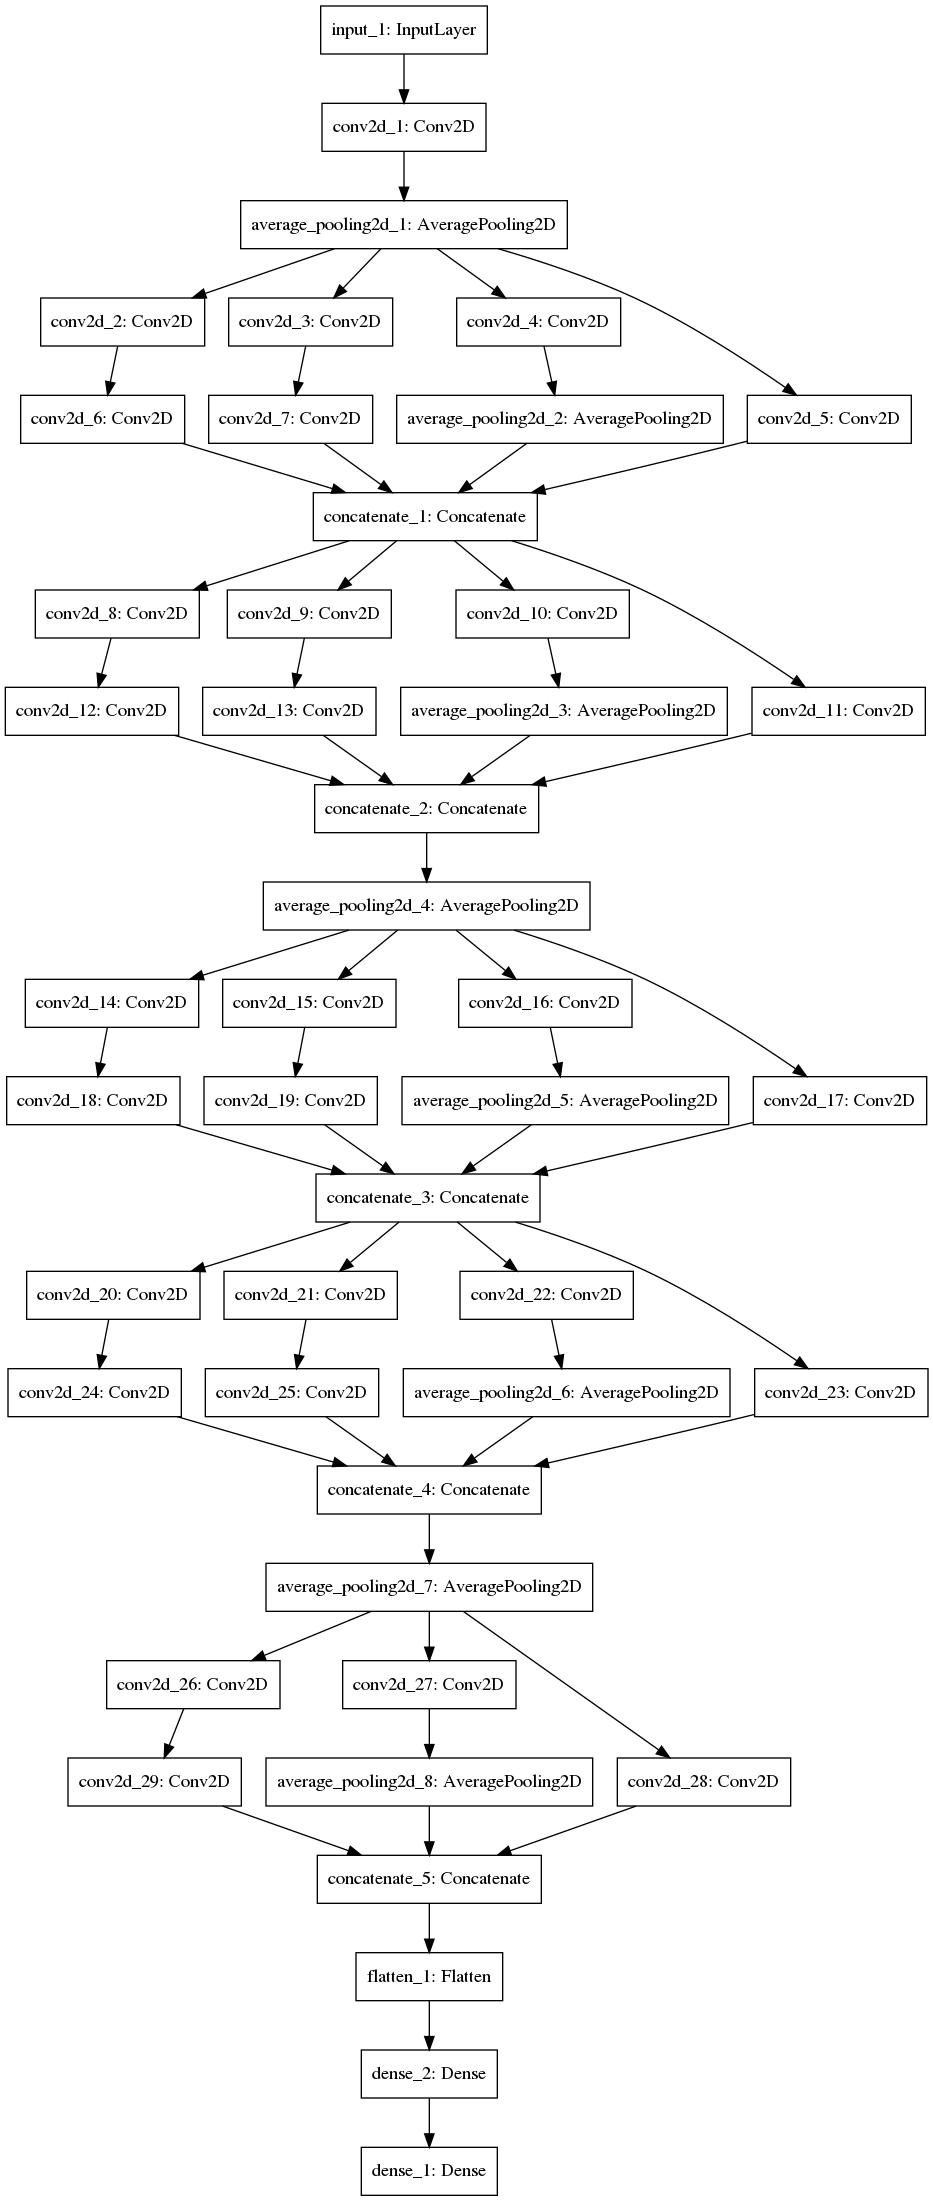
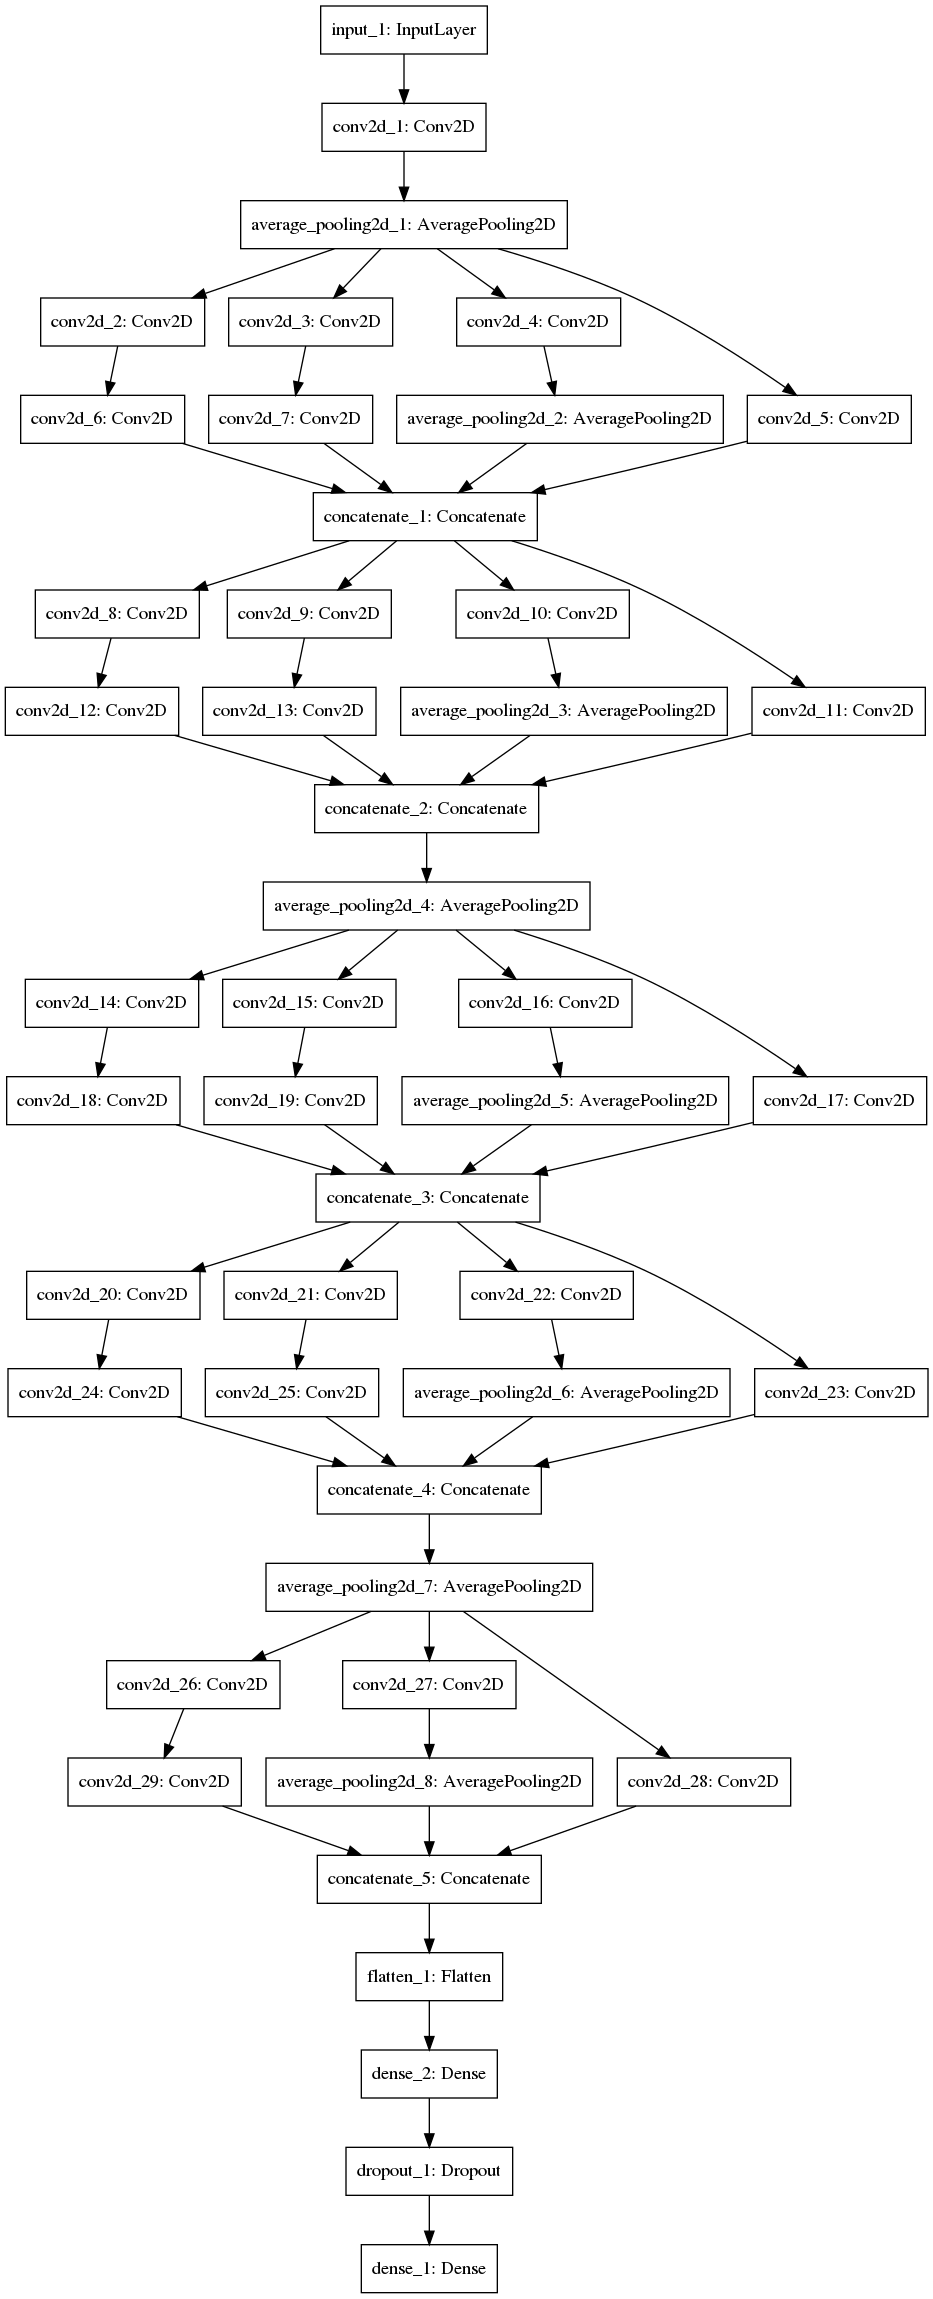
Refactored Master

Changed region(s): [[0.0, 0.0, 1.0, 1.0], [0.8081, 0.1545, 0.9636, 0.2163], [0.9325, 0.4634, 0.9946, 0.5252]]

diff --git a/train.py b/train.py
@@ -1,5 +1,4 @@
-from keras.preprocessing.image import ImageDataGenerator
-import numpy as np
+import numpy as nps
 from model.model import RedShiftClassificationModel
 from keras.callbacks import TensorBoard
 from time import time
@@ -7,6 +6,7 @@ import seaborn as sns
 from matplotlib import pyplot as plt
 from sklearn.model_selection import train_test_split
 from astropy.visualization import make_lupton_rgb
+import numpy as np
 
 
 class Train():
@@ -18,27 +18,9 @@ class Train():
     def execute(self, model, dataset):
         X = dataset['X']
         y = dataset['y']
-        train_X, valid_X, train_y, valid_y = train_test_split(X, y, test_size=0.1, random_state=32)
-        # self.plot_hist(np.asarray(train_y))
-        train_y = np.array(train_y)
-        # self.random_set_viz(train_X, train_y)
-        
-        train_y_cats = self.to_categorical(train_y)
-        valid_y_cats = self.to_categorical(valid_y)
-        # tensorboard = TensorBoard(log_dir='logs/{}'.format(time()))
-        # self.datagen.flow(x=X, y=y_cats, shuffle=True)
-        steps_per_epoch_train = train_X.shape[0]//self.batch_size
-        steps_per_epoch_valid = valid_X.shape[0]//self.batch_size
-
-        # model.fit_generator(self.data_generator(train_X, train_y_cats, self.batch_size),
-        #                     steps_per_epoch=steps_per_epoch_train,
-        #                     epochs=self.epochs, verbose=1,
-        #                     validation_data=self.data_generator(
-        #                         valid_X, valid_y_cats, self.batch_size),
-        #                     validation_steps=steps_per_epoch_valid)
-        model.fit(train_X, train_y_cats, epochs=25)
-
-        # model.save('10000-100Epochs.h5')
+        y_cats = self.to_categorical(y)
+        model.fit(X, y_cats, epochs=self.epochs, validation_split=0.15)
+        # model.save_weights('epochs7500-25-weights.h5')
 
     def plot_hist(self, y):
         print(y.flatten().shape)
@@ -51,17 +33,17 @@ class Train():
         random_samples = X[random_idxes]
         random_targets = y[random_idxes]
         random_cats = self.to_categorical(random_targets)
-        num_rows_fig = num // 3
-        fig, axes_list = plt.subplots(num_rows_fig, ncols=3)
+        num_rows_fig = num // 5
+        fig, axes_list = plt.subplots(num_rows_fig, ncols=5)
         print(len(axes_list))
         k = 0
         print(random_samples.shape)
         for i in range(num_rows_fig):
-            for j in range(3):
+            for j in range(5):
                 # print(random_samples[k, :, :, 1])
-                to_disp_img = make_lupton_rgb(random_samples[k, :, :, 2],
-                                              random_samples[k, :, :, 3],
-                                              random_samples[k, :, :, 4])
+                to_disp_img = make_lupton_rgb(random_samples[k, :, :, 0],
+                                              random_samples[k, :, :, 1],
+                                              random_samples[k, :, :, 2])
                 axes_list[i][j].imshow(to_disp_img)
                 axes_list[i][j].set_title("Z: {0}, Cat: {1}"
                                           .format(random_targets[k], random_cats[k]))
@@ -69,7 +51,7 @@ class Train():
         plt.subplots_adjust(wspace=.4, hspace=.4)
         plt.show()
 
-    def to_categorical(self, y, max_y=0.4, num_possible_classes=1024):
+    def to_categorical(self, y, max_y=0.4, num_possible_classes=32):
         """Convert continuous redshift values into classes"""
         one_step = max_y / num_possible_classes
         y_cats = []
@@ -96,6 +78,7 @@ if __name__ == "__main__":
     from pickle import load
     with open('data/images/combined_dataset.pkl', 'rb') as pkl:
         dataset = load(pkl)
-    model = RedShiftClassificationModel((64, 64, 5), 1024)
-    train_ins = Train(batch_size=32)
+    model = RedShiftClassificationModel((64, 64, 5), 32)
+    train_ins = Train(batch_size=32, epochs=25)
     train_ins.execute(model, dataset)
+    # train_ins.plot_hist(dataset['y'])

diff --git a/model/model.py b/model/model.py
@@ -1,7 +1,7 @@
 # from keras.layers import Sequential
 from keras import Model
 from keras.layers import (Input, Conv2D, AveragePooling2D,
-                          concatenate, Dense, PReLU, Flatten)
+                          concatenate, Dense, PReLU, Flatten, Dropout)
 from keras.optimizers import Adam
 # from keras.layers.merge import concatenate
 import numpy as np
@@ -18,7 +18,7 @@ class RedShiftClassificationModel(Model):
         conv_1 = Conv2D(64,
                         kernel_size=(5, 5),
                         padding='same',
-                        activation=PReLU())
+                        activation='relu')
         conv_1_out = conv_1(image_input)
 
         # Pooling Layer 1
@@ -64,9 +64,9 @@ class RedShiftClassificationModel(Model):
         input_to_dense = Flatten(
                             data_format='channels_last')(inception_layer5_out)
         print(input_to_dense.shape)
-        model_output = Dense(units=num_redshift_classes, activation='softmax')(
-                 Dense(units=num_redshift_classes, activation='relu')(
-                       input_to_dense))
+        model_output = Dense(units=num_redshift_classes, activation='softmax')(((
+                 Dense(units=1024, activation='relu')(
+                       input_to_dense))))
 
         super(RedShiftClassificationModel, self).__init__(
             inputs=[image_input], outputs=model_output)
@@ -83,27 +83,27 @@ class RedShiftClassificationModel(Model):
                             kernel_5=True):
         """These convolutional layers take care of the inception layer"""
         # Conv Layer 1 and Layer 2: Feed them to convolution layers 5 and 6
-        c1 = Conv2D(num_f1, kernel_size=(1, 1), padding='same', activation=PReLU())
+        c1 = Conv2D(num_f1, kernel_size=(1, 1), padding='same', activation='relu')
         c1_out = c1(input_weights)
         if kernel_5:
-            c2 = Conv2D(num_f1, kernel_size=(1, 1), padding='same', activation=PReLU())
+            c2 = Conv2D(num_f1, kernel_size=(1, 1), padding='same', activation='relu')
             c2_out = c2(input_weights)
 
         # Conv Layer 3 : Feed to pooling layer 1
-        c3 = Conv2D(num_f1, kernel_size=(1, 1), padding='same', activation=PReLU())
+        c3 = Conv2D(num_f1, kernel_size=(1, 1), padding='same', activation='relu')
         c3_out = c3(input_weights)
 
         # Conv Layer 4: Feed directly to concat
-        c4 = Conv2D(num_f2, kernel_size=(1, 1), padding='same', activation=PReLU())
+        c4 = Conv2D(num_f2, kernel_size=(1, 1), padding='same', activation='relu')
         c4_out = c4(input_weights)
 
         # Conv Layer 5: Feed from c1, feed to concat
-        c5 = Conv2D(num_f2, kernel_size=(3, 3), padding='same', activation=PReLU())
+        c5 = Conv2D(num_f2, kernel_size=(3, 3), padding='same', activation='relu')
         c5_out = c5(c1_out)
 
         # Conv Layer 6: Feed from c2, feed to concat
         if kernel_5:
-            c6 = Conv2D(num_f2, kernel_size=(5, 5), padding='same', activation=PReLU())
+            c6 = Conv2D(num_f2, kernel_size=(5, 5), padding='same', activation='relu')
             c6_out = c6(c2_out)
 
         # Pooling Layer 1: Feed from conv3, feed to concat
@@ -114,11 +114,3 @@ class RedShiftClassificationModel(Model):
             return concatenate([c4_out, c5_out, c6_out, p1_out])
         else:
             return concatenate([c4_out, c5_out, p1_out])
-
-
-if __name__ == "__main__":
-    from model_utils import save_model_image
-    rscm = RedShiftClassificationModel((64, 64, 5), 1024)
-    save_model_image(rscm, 'redshiftmodel.png')
-    # print(rscm.predict(np.random.rand(1, 64, 64, 5)).shape)
-    # rscm.prepare_for_training()

diff --git a/model/visualize_preds.py b/model/visualize_preds.py
@@ -1,0 +1,58 @@
+from astropy.visualization import make_lupton_rgb
+from matplotlib import pyplot as plt
+from sklearn.model_selection import train_test_split
+from pickle import load
+import numpy as np
+from collections import OrderedDict
+
+
+class VisualizePredictions():
+    """Visualize Some of the predictions of the model
+        params:
+            num(int): the number of plots
+            num_classes(int): the number of output classes
+    """
+    def __init__(self, num=5, num_classes=32):
+        self.num = num
+        self.num_classes = num_classes
+        np.random.seed(32)
+
+    def execute(self, model, dataset):
+        """Execute the plotting
+            params:
+                model: the model
+                dataset: the dataset
+        """
+        X = dataset['X']
+        gnd = dataset['y']
+        _, X, _, gnd = train_test_split(X, gnd, test_size=0.2)
+        print(self.num_classes)
+        start = 0.4 / (2*self.num_classes)
+        bin_dist = 0.4 / self.num_classes
+        bins = []
+        for i in range(self.num_classes):
+            bins.append(start)
+            start += bin_dist
+        print(bins)
+        idxes = np.random.randint(X.shape[0], size=self.num)+10
+        X = X[idxes]
+        gnd = gnd[idxes]
+        y = model.predict(X)
+        print(y.shape)
+        fig, axes = plt.subplots(nrows=self.num, ncols=1)
+        for image, pred, gnd_val, ax in zip(X, y, gnd, axes):
+            ax.plot(pred, label='Softmax output')
+            z = np.sum(pred.reshape(1, self.num_classes) * bins)
+            print(z, gnd_val)
+            ax.text(0.9, 0.8,
+                    "z(predicted): {0:.6},\n z(real): {1:.6}".format(z, gnd_val[0]),
+                    style='italic',
+                    ha='center',
+                    va='center',
+                    transform=ax.transAxes)
+            ax.vlines(z/0.0125, ymin='.2', ymax='.8', label='prediction', linestyles='dashed', color='r')
+            ax.vlines(gnd_val/0.0125, ymin='.2', ymax='.8', label='ground values', linestyles='dashed', color='g')
+        handles, labels = plt.gca().get_legend_handles_labels()
+        by_label = OrderedDict(zip(labels, handles))
+        plt.figlegend(by_label.values(), by_label.keys())
+        plt.show()

diff --git a/model/model_utils.py b/model/model_utils.py
@@ -1,5 +1,6 @@
 from keras.utils import plot_model
-
+from model import RedShiftClassificationModel
+from keras.models import load_model
 
 def save_model_image(model, filename):
     plot_model(model, filename)
